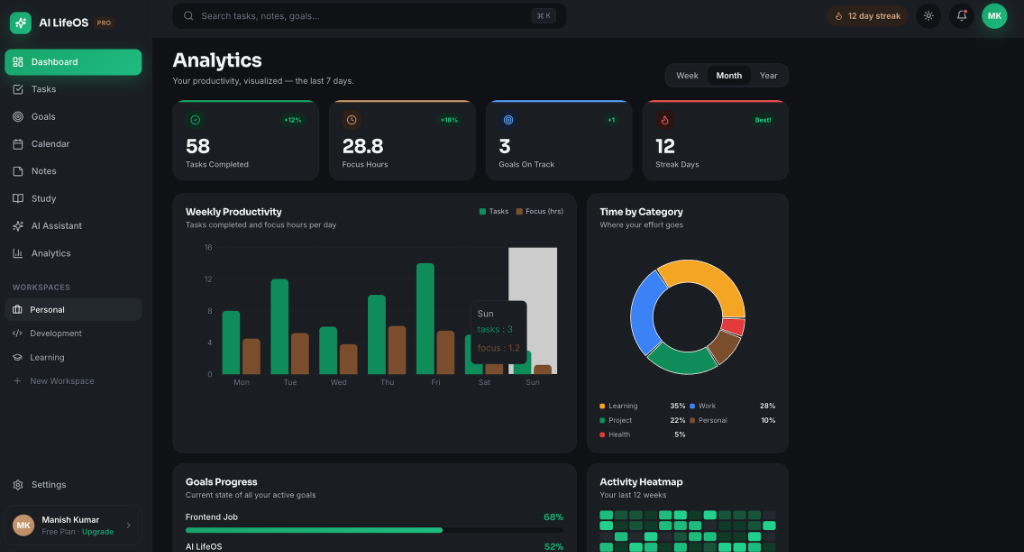
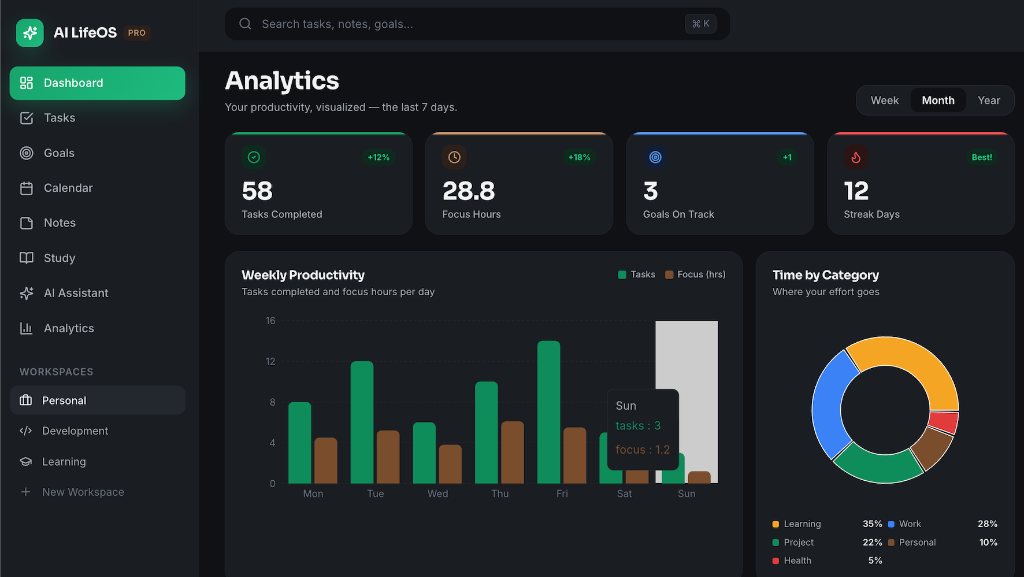
Update AILifeOS project image and remove forced aspect ratio to fit screenshots perfectly

diff --git a/src/styles/projects.css b/src/styles/projects.css
@@ -47,8 +47,8 @@
 
 .project-image {
   width: 100%;
-  aspect-ratio: 16/9;
-  object-fit: cover;
+  height: auto;
+  display: block;
   filter: grayscale(100%);
   border: var(--border-thin);
 }
